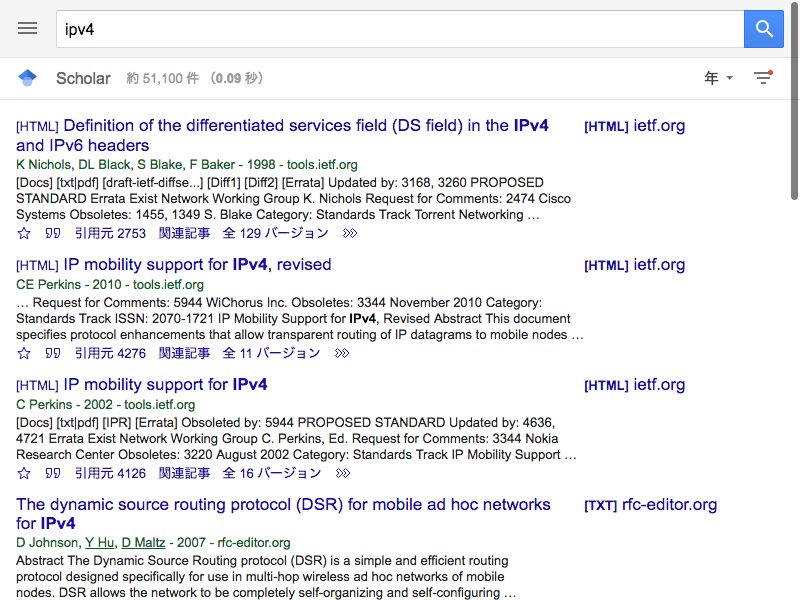
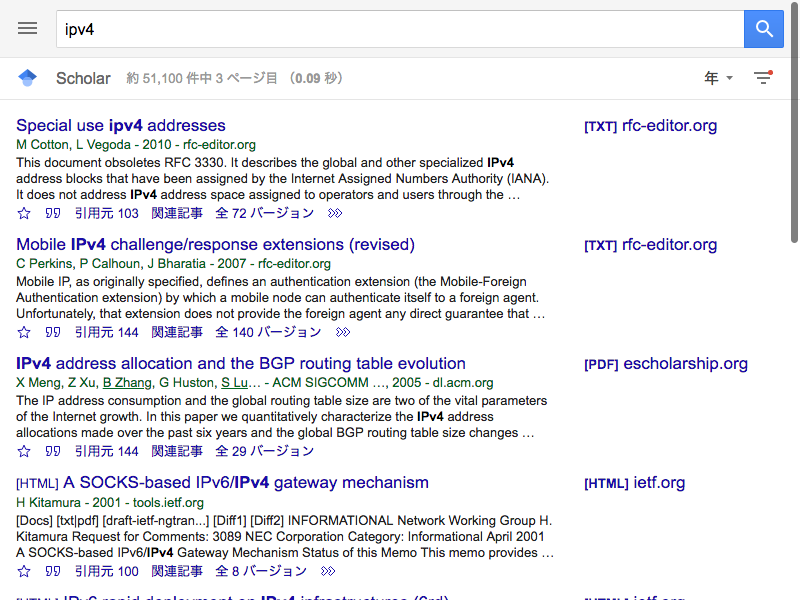
Implement Next click

diff --git a/python/api.py b/python/api.py
@@ -67,14 +67,8 @@ def get_title():
         if len(title) > 5:
             break
         else:
-            driver.save_screenshot('title-fail.png')
-            try:
-                WebDriverWait(driver, 10).until(lambda x: x.find_element_by_xpath('//*[@id="gs_nm"]/button[2]'))
-            finally:
-                driver.quit()
-
-            # driver.execute_script("window.scrollTo(0, document.body.scrollHeight);")
-            driver.find_element_by_class_name("gs_btnPR").click()
+            elem = driver.find_element_by_xpath('//*[@id="gs_nm"]/button[2]')
+            driver.execute_script("arguments[0].click();", elem)
 
     driver.quit()
 
